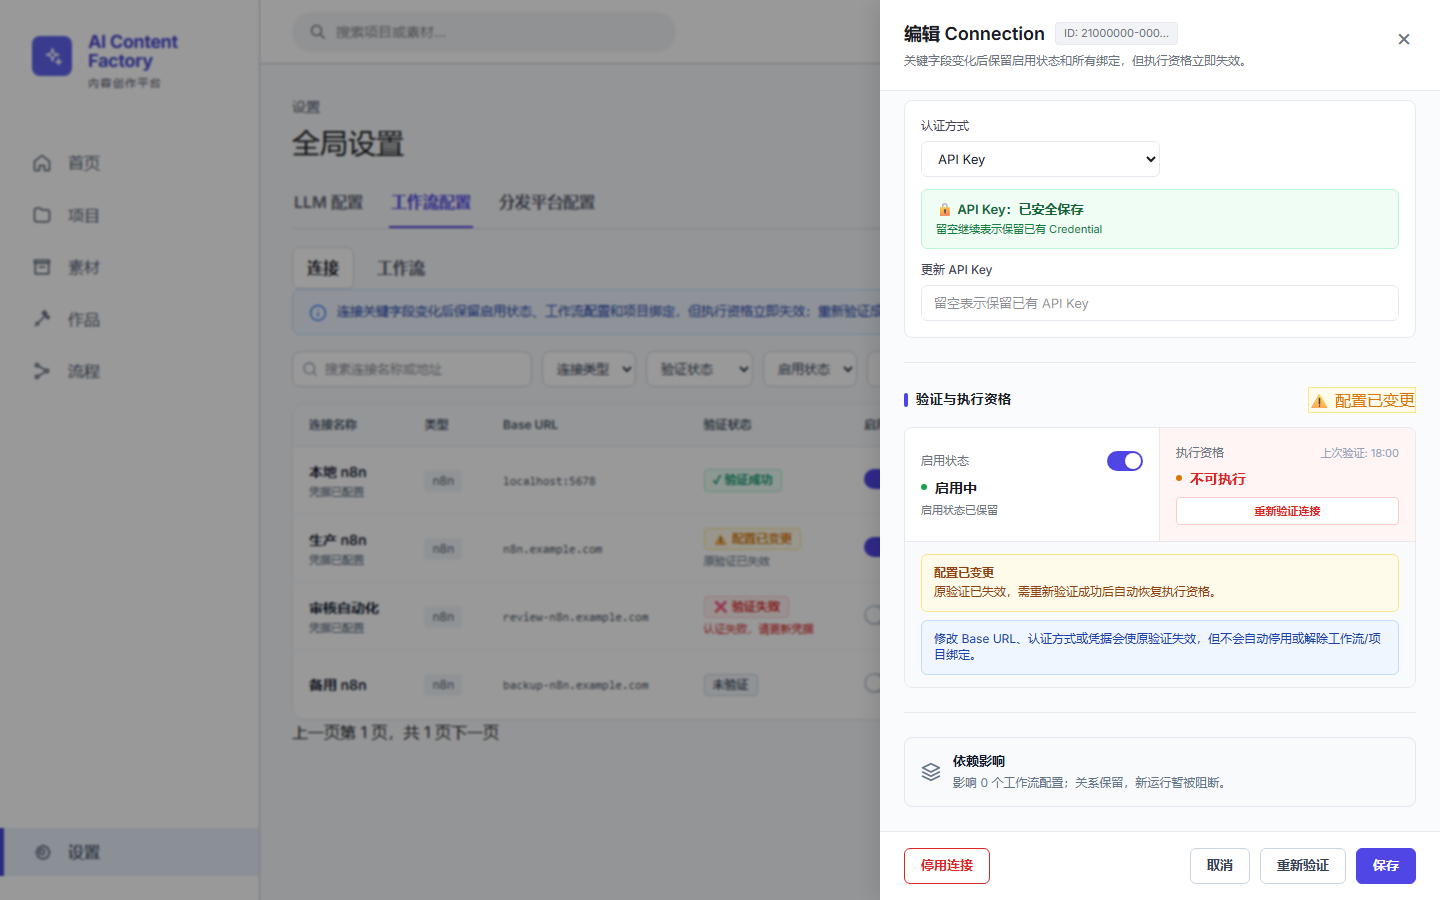
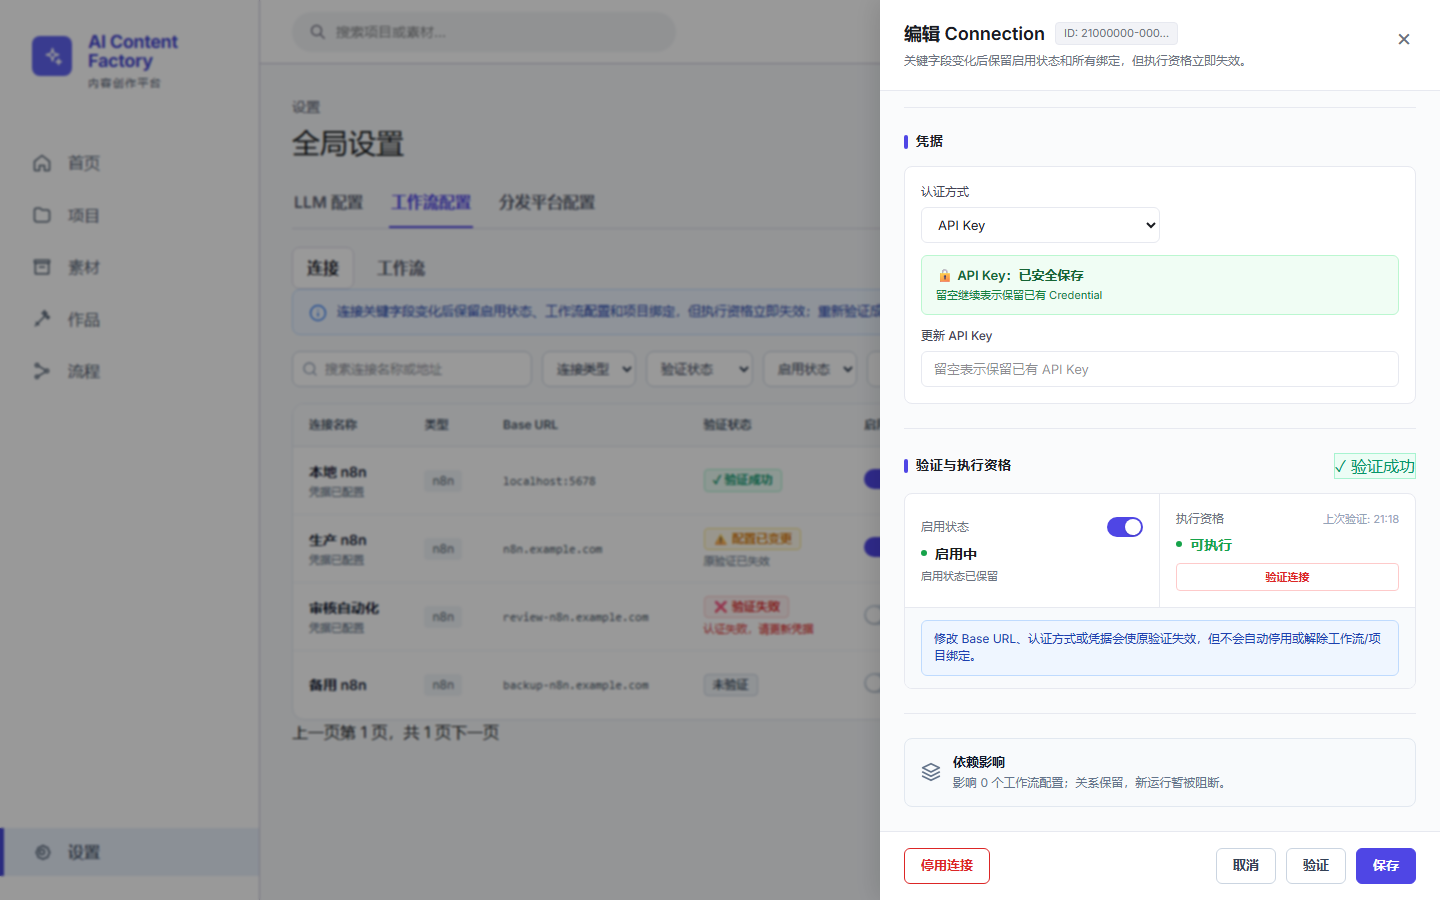
fix(ui): correct UI-004 and UI-005 acceptance scope

diff --git a/apps/web/src/features/global-config/workflow-connection-api.ts b/apps/web/src/features/global-config/workflow-connection-api.ts
@@ -5,34 +5,11 @@ export type ConnectionType = string;
 export type N8nTypeConfig = { referenceType: "workflow_id" | "webhook_path"; referenceValue: string };
 export type WorkflowConnectionDto = { id:string; name:string; connectionType:ConnectionType; baseUrl:string; authType:"api_key"; timeoutSeconds:number; typeConfig:N8nTypeConfig; hasCredential:boolean; credentialFingerprint:string|null; integrationStatus:"not_connected"|"connected"|"unverified"|"verified"|"failed"; validationStatus?:ValidationStatus; enabled:boolean; executable?:boolean; safeError?:SafeError|null; workflowConfigurationCount?:number; affectedWorkflowConfigurationCount?:number|null; verifiedVersion?:number|null; checkedAt?:string|null; checks?:ValidationCheck[]; lastVerifiedAt:string|null; lastErrorCode:string|null; lastErrorMessage:string|null; version:number; createdAt:string; updatedAt:string };
 export type ConnectionTypeDto = { connectionType:ConnectionType; displayName:string; authTypes:"api_key"[]; fieldSchemas:unknown[] };
-export type ConnectionVm = { id:string; name:string; typeLabel:string; baseUrl:string; timeoutSeconds:number; referenceLabel:string; hasCredential:boolean; credentialFingerprint:string|null; statusLabel:string; validationLabel:string; validationStatus:ValidationStatus; enabled:boolean; enabledLabel:string; executable:boolean; impactCount:number; safeError:string|null; lastVerifiedAt:string|null; version:number };
+export type ConnectionVm = { id:string; name:string; typeLabel:string; baseUrl:string; timeoutSeconds:number; referenceLabel:string; hasCredential:boolean; credentialFingerprint:string|null; statusLabel:string; validationLabel:string; enabledLabel:string; executable:boolean; impactCount:number; safeError:string|null; version:number };
 export type ConnectionFormInput = { name:string; connectionType:ConnectionType; baseUrl:string; timeoutSeconds:number; typeConfigJson:string; credential:string };
 export type ConnectionListQuery = { q?:string; connectionType?:ConnectionType; validationStatus?:ValidationStatus; enabled?:boolean; executable?:boolean; limit?:number; offset?:number };
 const typeLabel = (item:ConnectionTypeDto[], type:ConnectionType) => item.find(x=>x.connectionType===type)?.displayName ?? "未知连接类型";
-export const mapConnection = (item:WorkflowConnectionDto, types:ConnectionTypeDto[]):ConnectionVm => {
-  const isVerified = item.validationStatus === "verified";
-  const isExecutable = item.executable === true || (item.enabled && isVerified);
-  return {
-    id: item.id,
-    name: item.name,
-    typeLabel: typeLabel(types, item.connectionType),
-    baseUrl: item.baseUrl,
-    timeoutSeconds: item.timeoutSeconds,
-    referenceLabel: item.typeConfig?.referenceType === "workflow_id" ? "工作流 ID" : "Webhook 路径",
-    hasCredential: item.hasCredential,
-    credentialFingerprint: item.credentialFingerprint,
-    statusLabel: isExecutable ? "可执行" : item.enabled ? "不可执行" : "未启用",
-    validationLabel: item.validationStatus ? validationLabel[item.validationStatus] : "未验证",
-    validationStatus: item.validationStatus ?? "unverified",
-    enabled: item.enabled,
-    enabledLabel: item.enabled ? "已启用" : "未启用",
-    executable: isExecutable,
-    impactCount: item.affectedWorkflowConfigurationCount ?? item.workflowConfigurationCount ?? 0,
-    safeError: item.safeError?.message ?? null,
-    lastVerifiedAt: item.lastVerifiedAt,
-    version: item.version
-  };
-};
+export const mapConnection = (item:WorkflowConnectionDto, types:ConnectionTypeDto[]):ConnectionVm => ({ id:item.id,name:item.name,typeLabel:typeLabel(types,item.connectionType),baseUrl:item.baseUrl,timeoutSeconds:item.timeoutSeconds,referenceLabel:item.typeConfig.referenceType==="workflow_id"?"工作流 ID":"Webhook 路径",hasCredential:item.hasCredential,credentialFingerprint:item.credentialFingerprint,statusLabel:item.executable?"可执行":item.enabled?"不可执行":"未启用",validationLabel:item.validationStatus?validationLabel[item.validationStatus]:"未验证",enabledLabel:item.enabled?"已启用":"未启用",executable:item.executable===true,impactCount:item.affectedWorkflowConfigurationCount??item.workflowConfigurationCount??0,safeError:item.safeError?.message??null,version:item.version });
 const validationLabel: Record<ValidationStatus, string> = { unverified:"未验证",verifying:"验证中",verified:"已验证",failed:"验证失败",stale:"需重新验证" };
 const parseConfig=(json:string):N8nTypeConfig=>JSON.parse(json) as N8nTypeConfig;
 export function validateConnectionForm(input:ConnectionFormInput, editing:boolean){if(!input.name.trim())return "\u8bf7\u8f93\u5165\u8fde\u63a5\u540d\u79f0\u3002";try{new URL(input.baseUrl.trim());}catch{return "\u8bf7\u8f93\u5165\u6709\u6548\u7684 Base URL\u3002";}if(!Number.isInteger(input.timeoutSeconds)||input.timeoutSeconds<5||input.timeoutSeconds>300)return "\u8bf7\u6c42\u8d85\u65f6\u9700\u4e3a 5 \u81f3 300 \u79d2\u4e4b\u95f4\u7684\u6574\u6570\u3002";let config:N8nTypeConfig;try{config=parseConfig(input.typeConfigJson);}catch{return "\u914d\u7f6e\u4fe1\u606f\u5fc5\u987b\u662f\u6709\u6548 JSON\u3002";}if(!config||!(config.referenceType==="workflow_id"||config.referenceType==="webhook_path")||typeof config.referenceValue!=="string"||!config.referenceValue.trim())return "\u914d\u7f6e\u4fe1\u606f\u9700\u5305\u542b referenceType \u548c referenceValue\u3002";if(!editing&&!input.credential.trim())return "\u8bf7\u8f93\u5165 API Key\u3002";return undefined;}

diff --git a/apps/web/src/features/global-config/connection-settings-page.tsx b/apps/web/src/features/global-config/connection-settings-page.tsx
@@ -4,9 +4,27 @@ import "./connection-settings.css";
 import { useCallback, useEffect, useState } from "react";
 import { ApiError } from "@/lib/api";
 import { createConnection, getConnection, listConnections, listConnectionTypes, mapConnection, setConnectionEnabled, updateConnection, validateConnectionForm, verifyConnection, type ConnectionFormInput, type ConnectionTypeDto, type ConnectionVm, type WorkflowConnectionDto } from "./workflow-connection-api";
+import type { ValidationStatus } from "./llm-provider-api";
 
 type Drawer = { mode: "create" } | { mode: "edit"; item: WorkflowConnectionDto } | null;
 const blank = (connectionType = ""): ConnectionFormInput => ({ name: "", connectionType, baseUrl: "", timeoutSeconds: 60, typeConfigJson: '{"referenceType":"workflow_id","referenceValue":""}', credential: "" });
+
+/** Page-layer list display model: keeps API mapper contract-stable and only adds UI display fields. */
+type ConnectionListItem = ConnectionVm & {
+  validationStatus: ValidationStatus;
+  enabled: boolean;
+  lastVerifiedAt: string | null;
+};
+
+function toConnectionListItem(item: WorkflowConnectionDto, types: ConnectionTypeDto[]): ConnectionListItem {
+  const vm = mapConnection(item, types);
+  return {
+    ...vm,
+    validationStatus: item.validationStatus ?? "unverified",
+    enabled: item.enabled,
+    lastVerifiedAt: item.lastVerifiedAt
+  };
+}
 
 function ConnectionDrawer({
   drawer,
@@ -395,7 +413,7 @@ function formatDateTime(isoString: string | null): string {
 
 export function ConnectionSettingsPage() {
   const [types, setTypes] = useState<ConnectionTypeDto[] | null>(null);
-  const [items, setItems] = useState<ConnectionVm[] | null>(null);
+  const [items, setItems] = useState<ConnectionListItem[] | null>(null);
   const [total, setTotal] = useState(0);
   const [error, setError] = useState<string>();
   const [drawer, setDrawer] = useState<Drawer>(null);
@@ -426,7 +444,7 @@ export function ConnectionSettingsPage() {
       ]);
       if (!signal?.aborted) {
         setTypes(catalogue.items);
-        setItems(result.items.map(item => mapConnection(item, catalogue.items)));
+        setItems(result.items.map(item => toConnectionListItem(item, catalogue.items)));
         setTotal(result.total);
       }
     } catch (cause) {
@@ -443,7 +461,7 @@ export function ConnectionSettingsPage() {
     };
   }, [load]);
 
-  const edit = async (item: ConnectionVm) => {
+  const edit = async (item: ConnectionListItem) => {
     try {
       setDrawer({ mode: "edit", item: await getConnection(item.id) });
     } catch {
@@ -451,7 +469,7 @@ export function ConnectionSettingsPage() {
     }
   };
 
-  const handleToggleEnabled = async (item: ConnectionVm) => {
+  const handleToggleEnabled = async (item: ConnectionListItem) => {
     if (togglingId) return;
     setTogglingId(item.id);
     try {
@@ -465,7 +483,7 @@ export function ConnectionSettingsPage() {
     }
   };
 
-  const handleVerify = async (item: ConnectionVm) => {
+  const handleVerify = async (item: ConnectionListItem) => {
     if (verifyingId) return;
     setVerifyingId(item.id);
     try {
